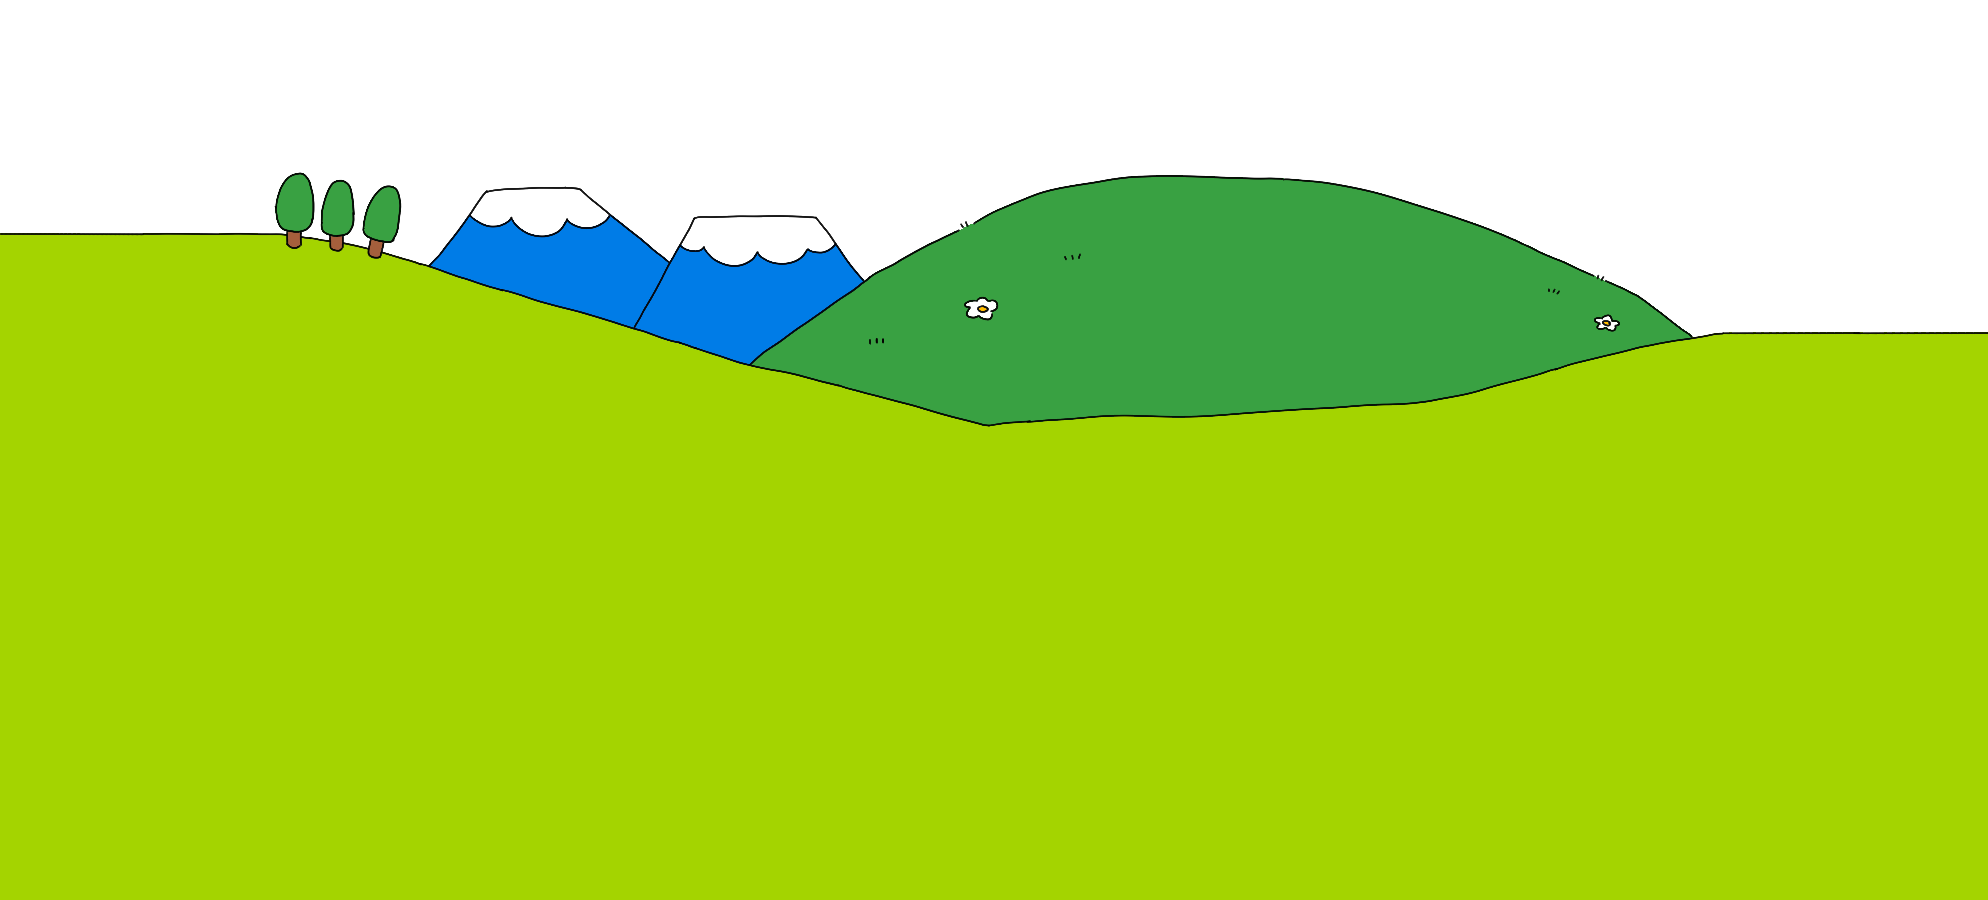
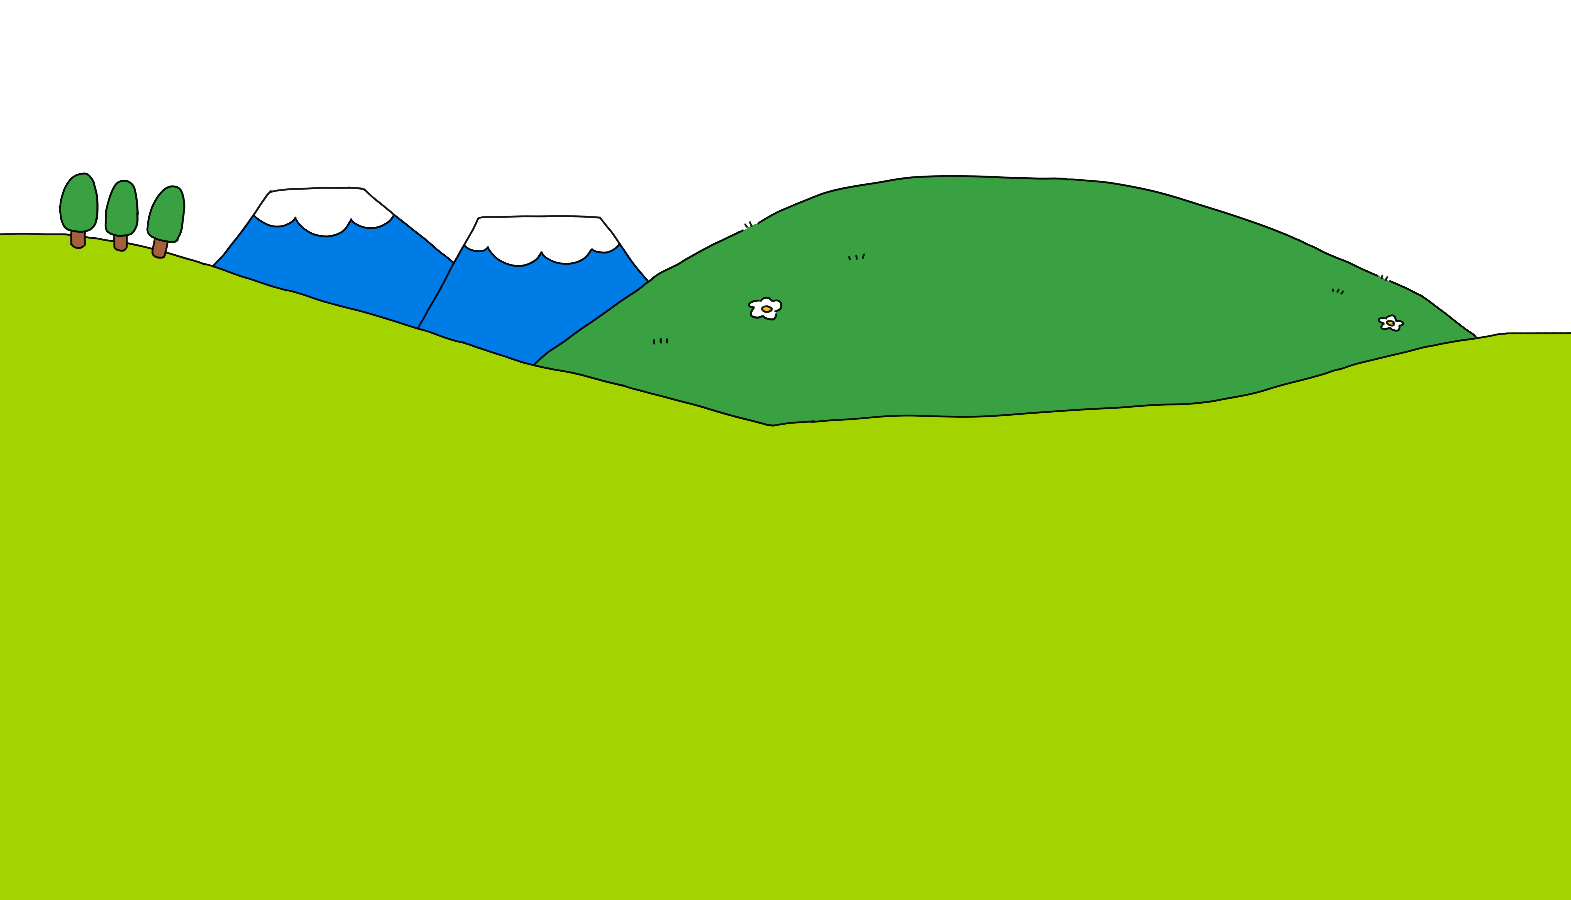
add animation for balloon

diff --git a/css/index.css b/css/index.css
@@ -20,15 +20,16 @@
   max-width: 100%;
   height: auto;
   top: 21.2%;
-  aspect-ratio: 1988 / 900;
+  aspect-ratio: 1571 / 900;
 }
 
 .mountain-bg {
   margin: auto;
   background-image: url(/images/issue3/header.png);
+  background-color: #00d0ff;
   background-size: contain;
   background-repeat: no-repeat;
-  aspect-ratio: 1988 / 900;
+  aspect-ratio: 1571 / 900;
   width: 100%;
   height: auto;
 }
@@ -36,7 +37,7 @@
 .mountain-bg-left {
   position: absolute;
   left: 0;
-  width: 15%;
+  width: 50%;
   height: 100%;
   background-image: url(/images/issue3/header-repeat-left.png);
   background-size: contain;
@@ -46,7 +47,7 @@
 .mountain-bg-right {
   position: absolute;
   right: 0;
-  width: 10%;
+  width: 50%;
   height: 100%;
   background-image: url(/images/issue3/header-repeat-right.png);
   background-size: contain;
@@ -72,7 +73,7 @@
 .pouch-title-box {
   position: absolute;
   width: 43%;
-  top: 50%;
+  top: 46.5%;
   left: 0;
   display: flex;
   flex-direction: column;
@@ -103,4 +104,80 @@
   background-repeat: no-repeat;
   aspect-ratio: 1074 / 956;
   width: 55%;
+}
+
+.dialogue {
+  position: absolute;
+  top: -3%;
+  left: 26.5%;
+  background-image: url(/images/issue3/dialogue.png);
+  background-size: contain;
+  background-repeat: no-repeat;
+  aspect-ratio: 310 / 276;
+  width: 21%;
+}
+
+
+.skybunny-box {
+  position: absolute;
+  top: 0%;
+  right: 0;
+  width: 8%;
+
+  animation: linear infinite;
+  animation-name: run;
+  animation-duration: 500s;
+  animation-delay: -300s;
+
+  /* animation-duration: 5s; */
+  transform: scaleX(1);
+}
+
+.skybunny {
+  position: absolute;
+  top: 0;
+  right: 0;
+  background-image: url(/images/issue3/trashbunny.png);
+  background-size: contain;
+  background-repeat: no-repeat;
+  aspect-ratio: 180 / 137;
+  width: 50%;
+}
+
+.balloon {
+  position: absolute;
+  top: 0;
+  left: 15%;
+  background-image: url(/images/issue3/balloon.png);
+  background-size: contain;
+  background-repeat: no-repeat;
+  aspect-ratio: 43 / 103;
+  width: 15%;
+}
+
+@keyframes run {
+  0% {
+    right: -8%;
+    top: 0;
+    transform: scaleX(1);
+  }
+  12%, 37%, 62%, 87% {
+    top: 4%;
+  }
+  25%, 75% {
+    top: 0;
+  }
+  50% {
+    top: 0;
+    right: 100%;
+    transform: scaleX(1);
+  }
+  52% {
+    transform: scaleX(-1);
+  }
+  100% {
+    top: 0;
+    right: -8%;
+    transform: scaleX(-1);
+  }
 }

diff --git a/index.md b/index.md
@@ -13,16 +13,21 @@ isHome: true
     <div class="mountain-bg-right"></div>
     <div class="main-scene">
       <div class="mountain-bg">
+      <div class="skybunny-box">
+        <div class="skybunny"></div>
+        <div class="balloon"></div>
+      </div>
         <div class="center-stage">
           <div class="header-box">
             <div class="pouch-title-box">
               <div class="pouch-title">
               </div>
               <div class="pouch-subtitle">
-                Issue 3 is out now!
+                Issue 3 out now!
               </div>
             </div>
             <div class="bunny">
+              <!-- <div class="dialogue"></div> -->
             </div>
           </div>
         </div>